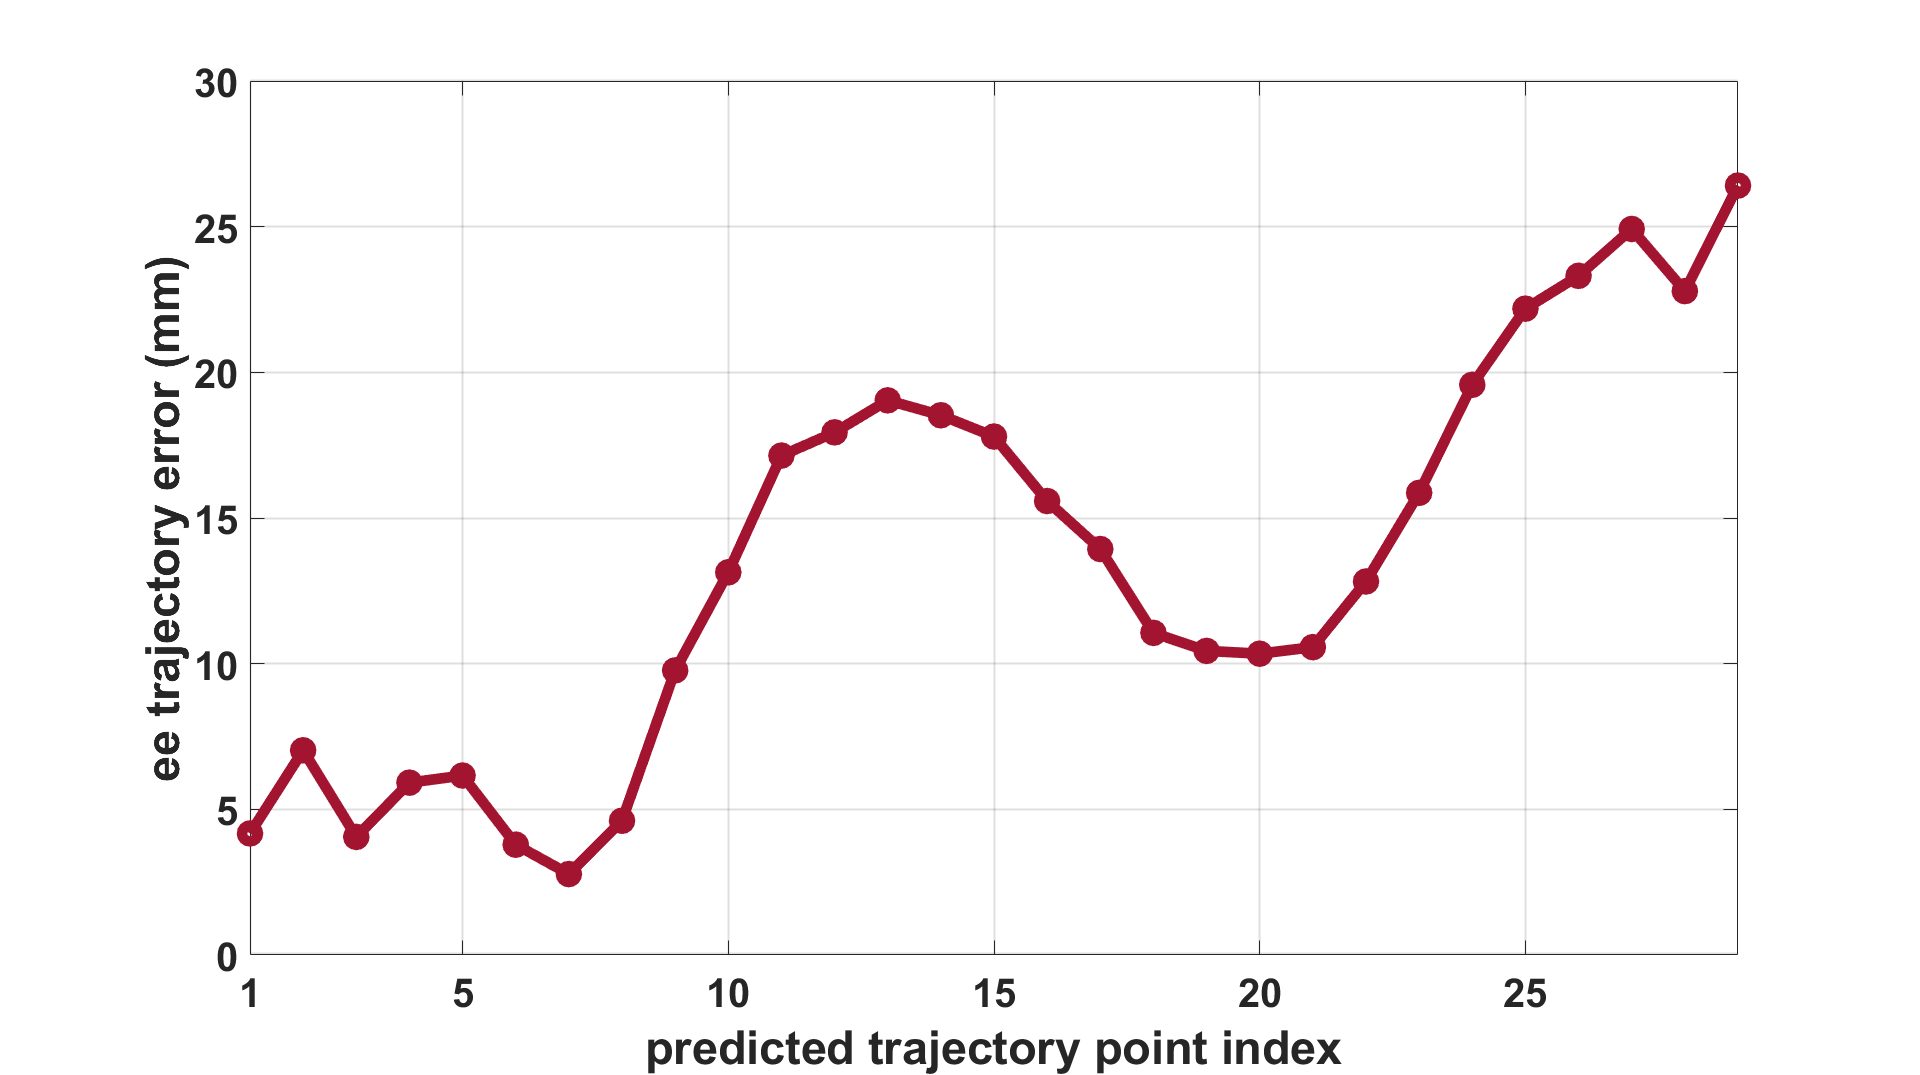
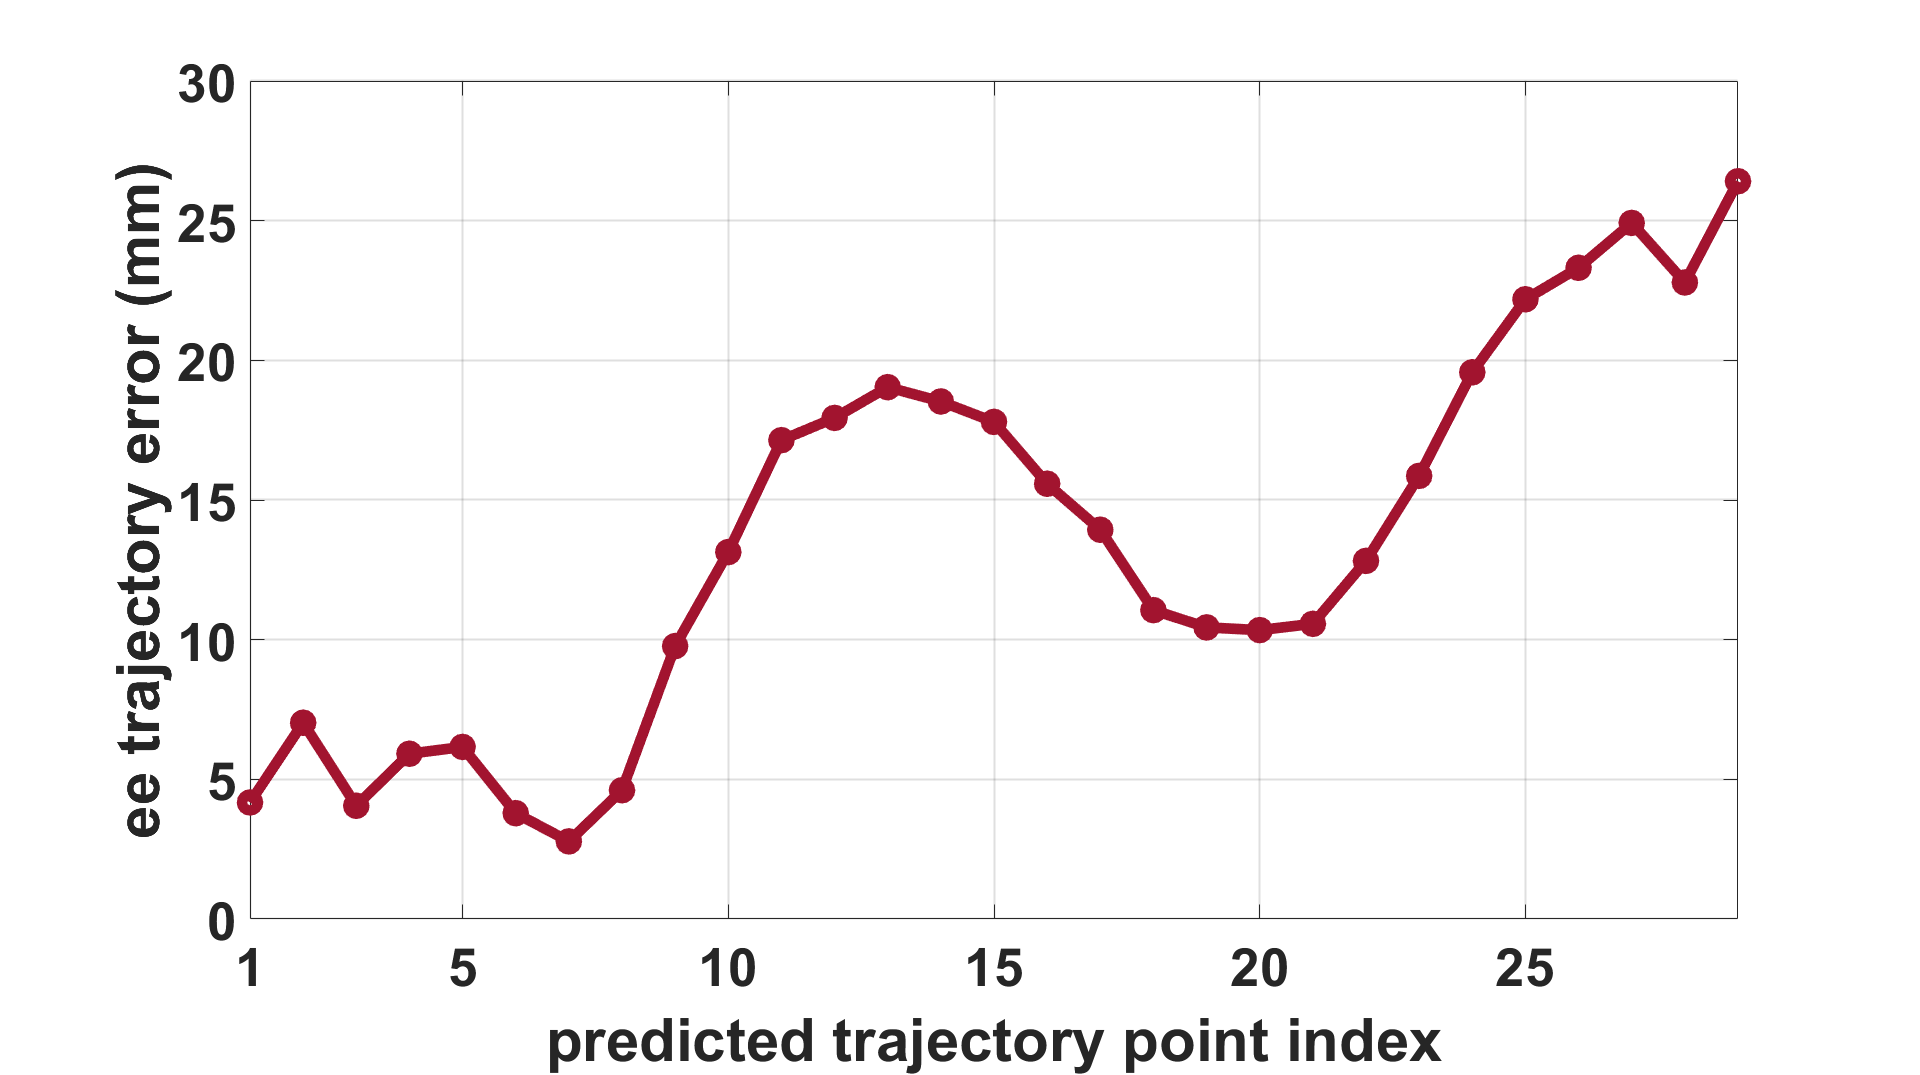
increase label and tick font size for traj error plots

diff --git a/real_robot_data_plots_and_demos/moving_a_stool/ee_position_and_joint_states_plotter.m b/real_robot_data_plots_and_demos/moving_a_stool/ee_position_and_joint_states_plotter.m
@@ -346,6 +346,11 @@ ax_ee_traj_final.Legend.Position = [legend_position(1) + shift_amount_x, legend_
 
 
 fig5 = figure(5);
+title_fontsize = 35;
+label_fontsize = 45;
+legend_fontsize = 25;
+tick_fontsize = 40;
+grid_lw = 1.5;
 ax_ee_traj_error_final = subplot(1, 1, 1, 'Parent', fig5);
 
 % yyaxis right

diff --git a/real_robot_data_plots_and_demos/pulling_a_drawer/ee_position_and_joint_states_plotter.m b/real_robot_data_plots_and_demos/pulling_a_drawer/ee_position_and_joint_states_plotter.m
@@ -394,6 +394,11 @@ ax_ee_traj_final.Legend.FontSize = legend_fontsize;
 
 
 fig5 = figure(5);
+title_fontsize = 35;
+label_fontsize = 45;
+legend_fontsize = 25;
+tick_fontsize = 40;
+grid_lw = 1.5;
 ax_ee_traj_error_final = subplot(1, 1, 1, 'Parent', fig5);
 
 % yyaxis right

diff --git a/real_robot_data_plots_and_demos/pushing_a_drawer/ee_position_and_joint_states_plotter.m b/real_robot_data_plots_and_demos/pushing_a_drawer/ee_position_and_joint_states_plotter.m
@@ -345,6 +345,11 @@ ax_ee_traj_final.Legend.FontSize = legend_fontsize;
 
 
 fig5 = figure(5);
+title_fontsize = 35;
+label_fontsize = 45;
+legend_fontsize = 25;
+tick_fontsize = 40;
+grid_lw = 1.5;
 ax_ee_traj_error_final = subplot(1, 1, 1, 'Parent', fig5);
 
 % yyaxis right

diff --git a/real_robot_data_plots_and_demos/orientation_experiments/valve_turn_case_1/ee_position_and_joint_states_plotter.m b/real_robot_data_plots_and_demos/orientation_experiments/valve_turn_case_1/ee_position_and_joint_states_plotter.m
@@ -370,6 +370,10 @@ ax_ee_traj_final.Legend.FontSize = legend_fontsize;
 
 
 fig5 = figure(5);
+title_fontsize = 35;
+label_fontsize = 45;
+tick_fontsize = 40;
+grid_lw = 1.5;
 ax_ee_traj_error_final = subplot(1, 1, 1, 'Parent', fig5);
 
 % yyaxis right

diff --git a/real_robot_data_plots_and_demos/orientation_experiments/valve_turn_case_2/ee_position_and_joint_states_plotter.m b/real_robot_data_plots_and_demos/orientation_experiments/valve_turn_case_2/ee_position_and_joint_states_plotter.m
@@ -371,6 +371,10 @@ ax_ee_traj_final.Legend.FontSize = legend_fontsize;
 
 
 fig5 = figure(5);
+title_fontsize = 35;
+label_fontsize = 45;
+tick_fontsize = 40;
+grid_lw = 1.5;
 ax_ee_traj_error_final = subplot(1, 1, 1, 'Parent', fig5);
 
 % yyaxis right

diff --git a/real_robot_data_plots_and_demos/orientation_experiments/valve_turn_case_3/ee_position_and_joint_states_plotter.m b/real_robot_data_plots_and_demos/orientation_experiments/valve_turn_case_3/ee_position_and_joint_states_plotter.m
@@ -390,6 +390,10 @@ ax_ee_traj_final.Legend.FontSize = legend_fontsize;
 
 
 fig5 = figure(5);
+title_fontsize = 35;
+label_fontsize = 45;
+tick_fontsize = 40;
+grid_lw = 1.5;
 ax_ee_traj_error_final = subplot(1, 1, 1, 'Parent', fig5);
 
 % yyaxis right

diff --git a/real_robot_data_plots_and_demos/orientation_experiments/valve_turn_case_4/ee_position_and_joint_states_plotter.m b/real_robot_data_plots_and_demos/orientation_experiments/valve_turn_case_4/ee_position_and_joint_states_plotter.m
@@ -393,6 +393,10 @@ ax_ee_traj_final.Legend.FontSize = legend_fontsize;
 
 
 fig5 = figure(5);
+title_fontsize = 35;
+label_fontsize = 45;
+tick_fontsize = 40;
+grid_lw = 1.5;
 ax_ee_traj_error_final = subplot(1, 1, 1, 'Parent', fig5);
 
 % yyaxis right
